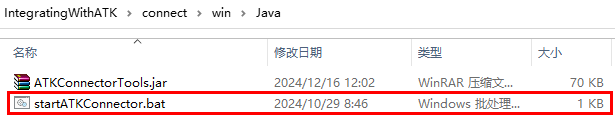
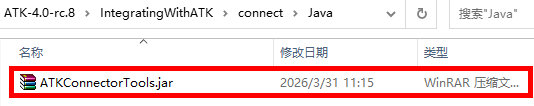
1

diff --git a/二次开发教程/2-二次开发CONNECT模式/5-Java接口/README.md b/二次开发教程/2-二次开发CONNECT模式/5-Java接口/README.md
@@ -17,6 +17,10 @@ jar包使用Java 1.8.0版本，打开Java客户端与ATK进行连接，如下图
 
 客户端提供Java可执行程序；提供`ATKConnectorTools.jar`，用来完成ATK与Java客户端的数据传输与解析，其中包含atkOpen、atkConnect、atkClose函数用以完成ATK与Java客户端的链接与参数设置，使用atkOpen进行连接，使用atkConnect进行属性设置。使用atkClose与ATK断开连接。
 
+用户采用Java库文件编写程序，需自行安装Java环境；若已安装可参考下图运行：
+
+![运行Jar包](media/README/image1.png)
+
 ## atkOpen
 
 ::: note 用法
